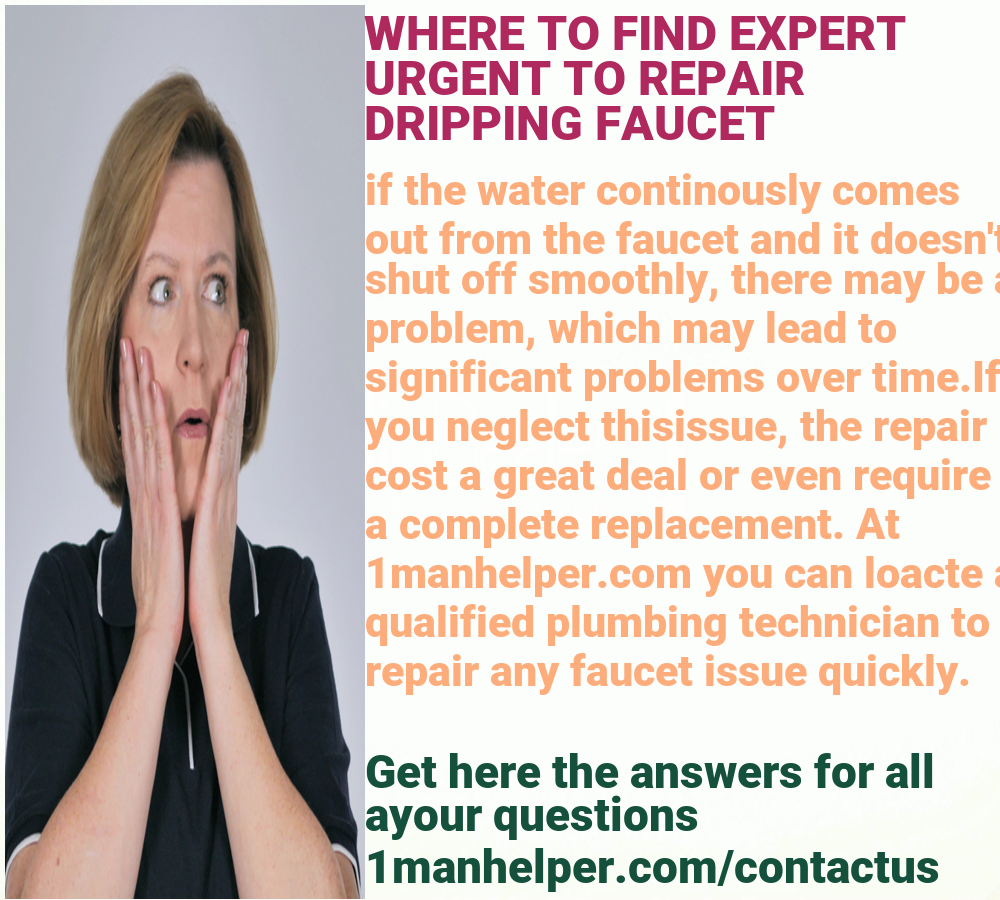
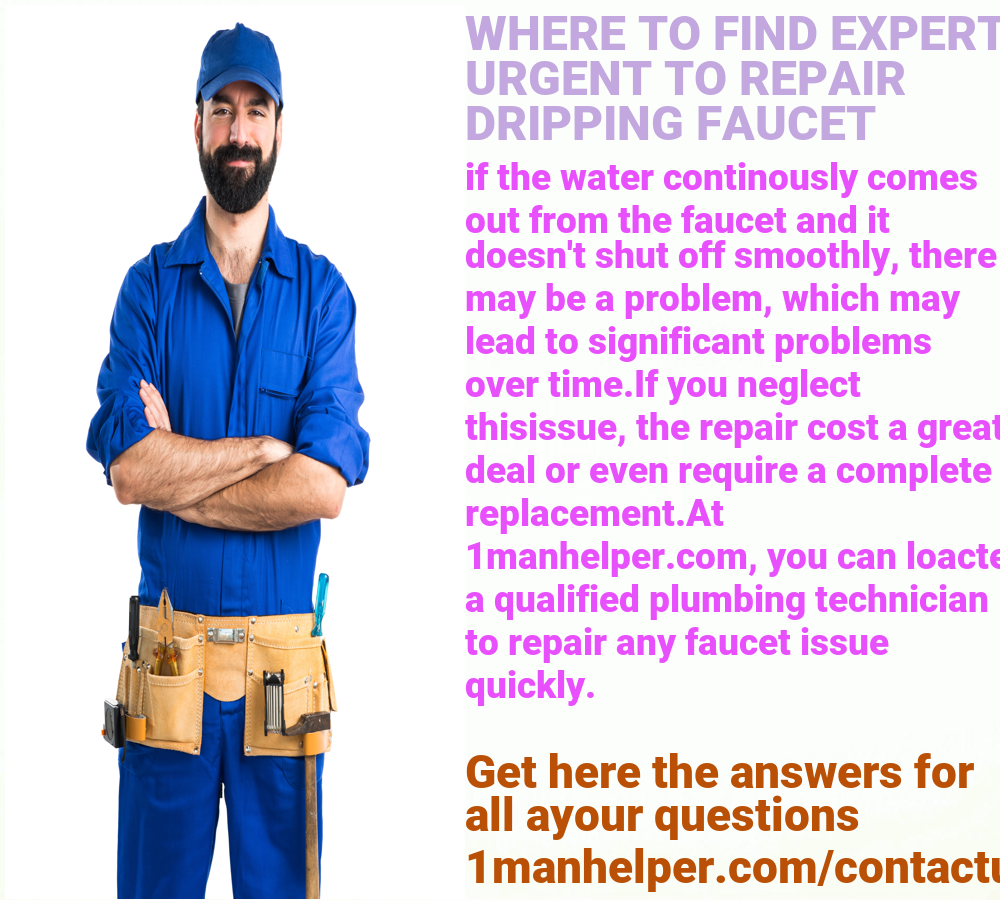
update_picture_minor_tamplate_changes

diff --git a/app.py b/app.py
@@ -7,22 +7,22 @@ from utilities import text_to_image
 path = "./image/515958.jpg"
 path_save = "./image/demo.png"
 fonts = './fonts/roboto-Black.ttf'
-image_path = "./image/5c7c71feb51b6.png"
+image_path = "./image/plumber-with-his-arms-crossed.jpg"
 
 template_1 = {"header": [(5, 5), (694, 73)],
               "image": [(5, 79), (322, 760)],
               "description": [(327, 79), (694, 760)],
               "footer": [(5, 766), (694, 894)]}
 
-template_2 = {"image": [(5, 5), (694, 296)],
-              "header": [(5, 300), (693, 429)],
-              "description": [(5, 429), (694, 761)],
-              "footer": [(5, 766), (694, 894)]}
+template_2 = {"image": [(5, 5), (990, 345)],
+              "header": [(5, 350), (995, 495)],
+              "description": [(5, 500), (990, 800)],
+              "footer": [(5, 800), (995, 895)]}
 
-template_3 = {'image': [(5, 5), (360, 894)],
-              "header": [(364, 5), (990, 140)],
-              "description": [(365, 150), (990, 720)],
-              "footer": [(365, 730), (995, 890)]}
+template_3 = {'image': [(5, 5), (460, 894)],
+              "header": [(465, 5), (990, 140)],
+              "description": [(465, 150), (990, 720)],
+              "footer": [(465, 730), (995, 890)]}
 
 img = Image.open(path)
 img = img.resize((1000, 900))

diff --git a/utilities/text_to_image.py b/utilities/text_to_image.py
@@ -1,3 +1,5 @@
+import re
+
 import cv2
 from tkinter import colorchooser
 import random
@@ -43,8 +45,10 @@ def add_text_to_image(picture_path, template, fonts, font_size, path):
             bg.save(temp)
         else:
             text = input(f"{k}: ")
+            regex_email = r"(?i)\b((?:https?://|www\d{0,3}[.]|[a-z0-9.\-]+[.][a-z]{2,4}/)(?:[^\s()<>]+|\(([^\s()<>]+|(\([^\s()<>]+\)))*\))+(?:\(([^\s()<>]+|(\([^\s()<>]+\)))*\)|[^\s`!()\[\]{};:'\".,<>?«»“”‘’]))"
+            print(re.findall(regex_email, text))
             w = template[k][1][0] - template[k][0][0]
-            h = template[k][1][1] - template[k][0][1]
+            h = template[k][1][1] - template[ks][0][1]
             x = template[k][0][0]
             y = template[k][0][1]
             colors = ["#" + "".join([random.choice("ABCDEF0123456789") for i in range(6)])]
